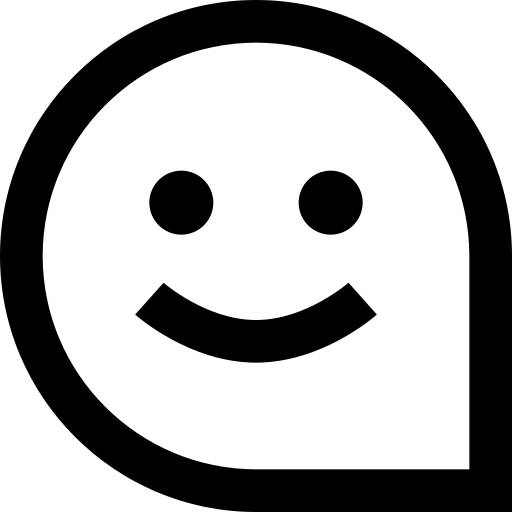
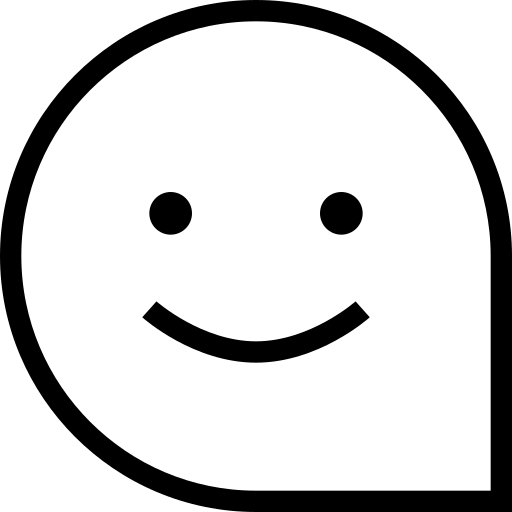
updated images

diff --git a/src/components/power-of-communication-section.js b/src/components/power-of-communication-section.js
@@ -1,8 +1,8 @@
 import * as React from "react"
 import * as communicationStyles from "../styles/power-of-communiation.module.css"
 import iconImage1 from "../images/fence1.png"
-import iconImage2 from "../images/comment-smile2.png"
-// import iconImage3 from "../images/users1.png"
+// import iconImage2 from "../images/comment-smile2.png"
+import iconImage2 from "../images/comment-smile.png"
 import iconImage3 from "../images/people-arrows-left-right.png"
 
 const PowerOfCommunicationSection = () => {

diff --git a/src/components/hero-section.js b/src/components/hero-section.js
@@ -1,6 +1,6 @@
 import * as React from "react"
 import * as heroStyles from "../styles/hero-section.module.css"
-import heroImage from "../images/hero.png"
+import heroImage from "../images/hero-image.png"
 
 const HeroSection = () => {
   return (
